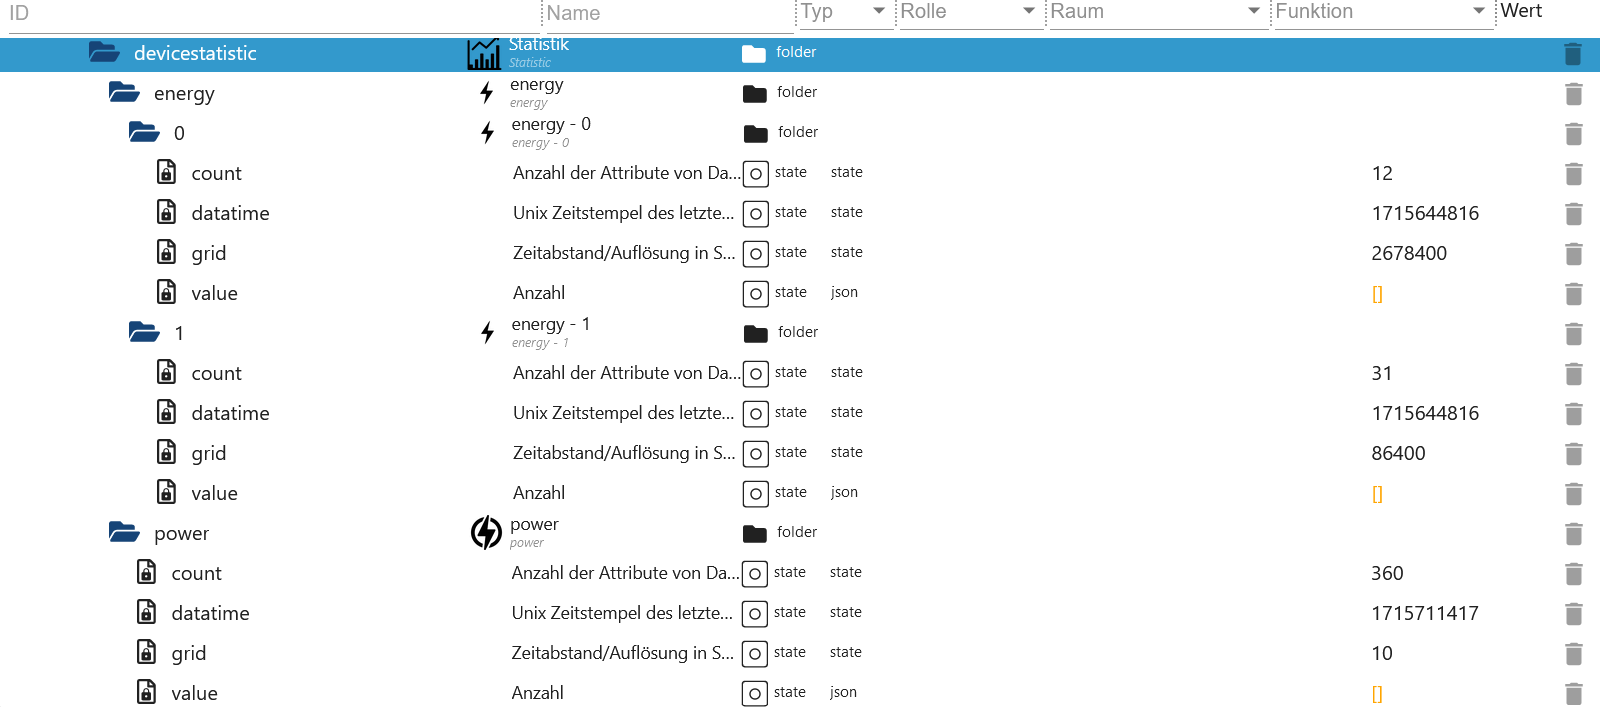
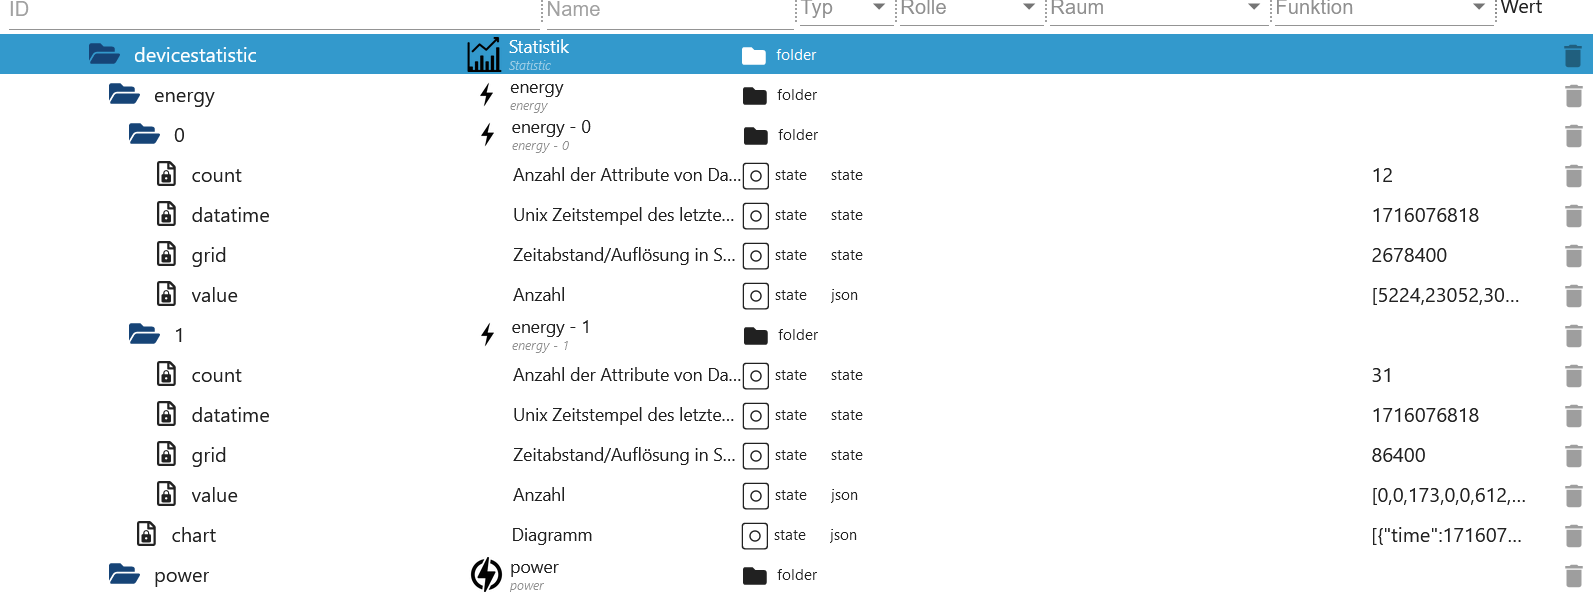
add response

diff --git a/main.js b/main.js
@@ -439,6 +439,9 @@ class Fritzboxdect extends utils.Adapter {
                     return;
                 }
                 switch (lastsplit) {
+                    case "own_request":
+                        this.own_request(id, fritz, state.val);
+                        break;
                     case "createColorTemplates":
                         this.createColorTemplates(id_ack, fritz);
                         break;
@@ -722,6 +725,15 @@ class Fritzboxdect extends utils.Adapter {
         } catch (e) {
             this.log.error(`Sendcommand: ${e}`);
         }
+    }
+
+    async own_request(id, fritz, url) {
+        url = url + "&sid=";
+        const data = await this.clients[fritz].apiFritz.own_request("GET", url, null, true);
+        if (data) {
+            await this.setStateAsync(`${fritz}.DECT_Control.own_request_response`, JSON.stringify(data), true);
+        }
+        this.setAckFlag(id);
     }
 
     async createColorTemplates(id_ack, fritz) {

diff --git a/lib/api.js b/lib/api.js
@@ -547,6 +547,10 @@ class Fritzbox extends EventEmitter {
         return this.config[request];
     }
 
+    async own_request(methode, url, data, value) {
+        return await this.sendRequest(methode, `${url}${this.config.response_sid.SessionInfo.SID}`, data, value);
+    }
+
     async sendRequest(methode, url, data, value) {
         if (data == null) {
             data = "";

diff --git a/docs/en/README.md b/docs/en/README.md
@@ -86,7 +86,7 @@
     -   `addColorTemplate.levelPercentage_template`: Level/level in percent, 0 to 100 percent
     -   `addColorTemplate.name_template`: Name of template
     -   `getsubscriptionstate`: Status DECT-ULE device registration States `subscriptionslatest` and `subscriptionstate` are set
-    -   `own_request`: Own request e.g. E.g.: `switchcmd=getbasicdevicestats&ain=<identifier>&sid=` Replace spaces with %20
+    -   `own_request`: Own request e.g. E.g.: `/webservices/homeautoswitch.lua?switchcmd=getbasicdevicestats&ain=<identifier>` Replace spaces with %20 - URL without `&sid=`
     -   `startulesubscription`: Start DECT-ULE device registration
 
 -   Readonly States
@@ -97,7 +97,8 @@
     -   `subscriptionstate`: "0"=login is not running / "1"=login is running / "2"=timeout / "3"=other error
 
 ![States_remote_1.png](img/States_remote_1.png)</br>
-![States_remote_2.png](img/States_remote_2.png)
+![States_remote_2.png](img/States_remote_2.png)</br>
+![States_own_request.png](img/States_own_request.png)
 
 [Summary](#summary)
 
@@ -502,18 +503,21 @@
 
 [Summary](#summary)
 
--   `devicestatistic.temperature.count`: Number of values
--   `devicestatistic.temperature.datatime`: Attribute contains the Unix timestamp of the last update
--   `devicestatistic.temperature.grid`: Time distance/resolution in seconds
--   `devicestatistic.temperature.value`: The content is a count number of comma separated list of values. Values with “-” are unknown
+-   `devicestatistic.<energy|power|voltage>.chart`: Array_JSON with time and value
+-   `devicestatistic.<energy|power|voltage>.count`: Number of values
+-   `devicestatistic.<energy|power|voltage>.datatime`: Attribute contains the Unix timestamp of the last update
+-   `devicestatistic.<energy|power|voltage>.grid`: Time distance/resolution in seconds
+-   `devicestatistic.<energy|power|voltage>.value`: The content is a count number of comma separated list of values. Values with “-” are unknown
 
 ![States_dect_statistic_1.png](img/States_dect_statistic_1.png)</br>
-![States_dect_statistic_2.png](img/States_dect_statistic_2.png)
+![States_dect_statistic_2.png](img/States_dect_statistic_2.png)</br>
+![States_dect_statistic_3.png](img/States_dect_statistic_3.png)
 
 ### Temperature Statistic
 
 [Summary](#summary)
 
+-   `devicestatistic.<energy|power|voltage>.chart`: Array_JSON with time and value
 -   `devicestatistic.temperature.count`: Number of values
 -   `devicestatistic.temperature.datatime`: Attribute contains the Unix timestamp of the last update
 -   `devicestatistic.temperature.grid`: Time distance/resolution in seconds

diff --git a/docs/de/README.md b/docs/de/README.md
@@ -86,7 +86,7 @@
     -   `addColorTemplate.levelPercentage_template`: Level/Niveau in Prozent, 0 bis 100 Prozent
     -   `addColorTemplate.name_template`: Name vom Template
     -   `getsubscriptionstate`: Status DECT-ULE-Geräteanmeldung States `subscriptionslatest` und `subscriptionstate` werden gesetzt
-    -   `own_request`: Eigener Request z. Bsp.: `switchcmd=getbasicdevicestats&ain=<identifier>&sid=` Leerzeichen mit %20 ersetzen
+    -   `own_request`: Eigener Request z. Bsp.: `/webservices/homeautoswitch.lua?switchcmd=getbasicdevicestats&ain=<identifier>` Leerzeichen mit %20 ersetzen und ohne `&sid=`
     -   `startulesubscription`: DECT-ULE-Geräteanmeldung starten
 
 -   Readonly States
@@ -97,7 +97,8 @@
     -   `subscriptionstate`: "0"=Anmeldung läuft nicht / "1"=Anmeldung läuft / "2"=timeout / "3"=sonstiger Error
 
 ![States_remote_1.png](img/States_remote_1.png)</br>
-![States_remote_2.png](img/States_remote_2.png)
+![States_remote_2.png](img/States_remote_2.png)</br>
+![States_own_request.png](img/States_own_request.png)
 
 [Zusammenfassung](#zusammenfassung)
 
@@ -501,10 +502,11 @@
 
 [Zusammenfassung](#zusammenfassung)
 
--   `devicestatistic.temperature.count`: Anzahl der Werte
--   `devicestatistic.temperature.datatime`: Attribute enthält den Unix-Timestamp der letzten Aktualisierung
--   `devicestatistic.temperature.grid`: Zeitliche Abstand/Auflösung in Sekunden
--   `devicestatistic.temperature.value`: Der Inhalt ist eine count-Anzahl kommaseparierte Liste von Werten. Werte mit „-“ sind unbekannt
+-   `devicestatistic.<energy|power|voltage>.chart`: Array_JSON mit Zeit und Werte
+-   `devicestatistic.<energy|power|voltage>.count`: Anzahl der Werte
+-   `devicestatistic.<energy|power|voltage>.datatime`: Attribute enthält den Unix-Timestamp der letzten Aktualisierung
+-   `devicestatistic.<energy|power|voltage>.grid`: Zeitliche Abstand/Auflösung in Sekunden
+-   `devicestatistic.<energy|power|voltage>.value`: Der Inhalt ist eine count-Anzahl kommaseparierte Liste von Werten. Werte mit „-“ sind unbekannt
 
 ![States_dect_statistic_1.png](img/States_dect_statistic_1.png)</br>
 ![States_dect_statistic_2.png](img/States_dect_statistic_2.png)
@@ -513,6 +515,7 @@
 
 [Zusammenfassung](#zusammenfassung)
 
+-   `devicestatistic.<energy|power|voltage>.chart`: Array_JSON mit Zeit und Werte
 -   `devicestatistic.temperature.count`: Anzahl der Werte
 -   `devicestatistic.temperature.datatime`: Attribute enthält den Unix-Timestamp der letzten Aktualisierung
 -   `devicestatistic.temperature.grid`: Zeitliche Abstand/Auflösung in Sekunden
